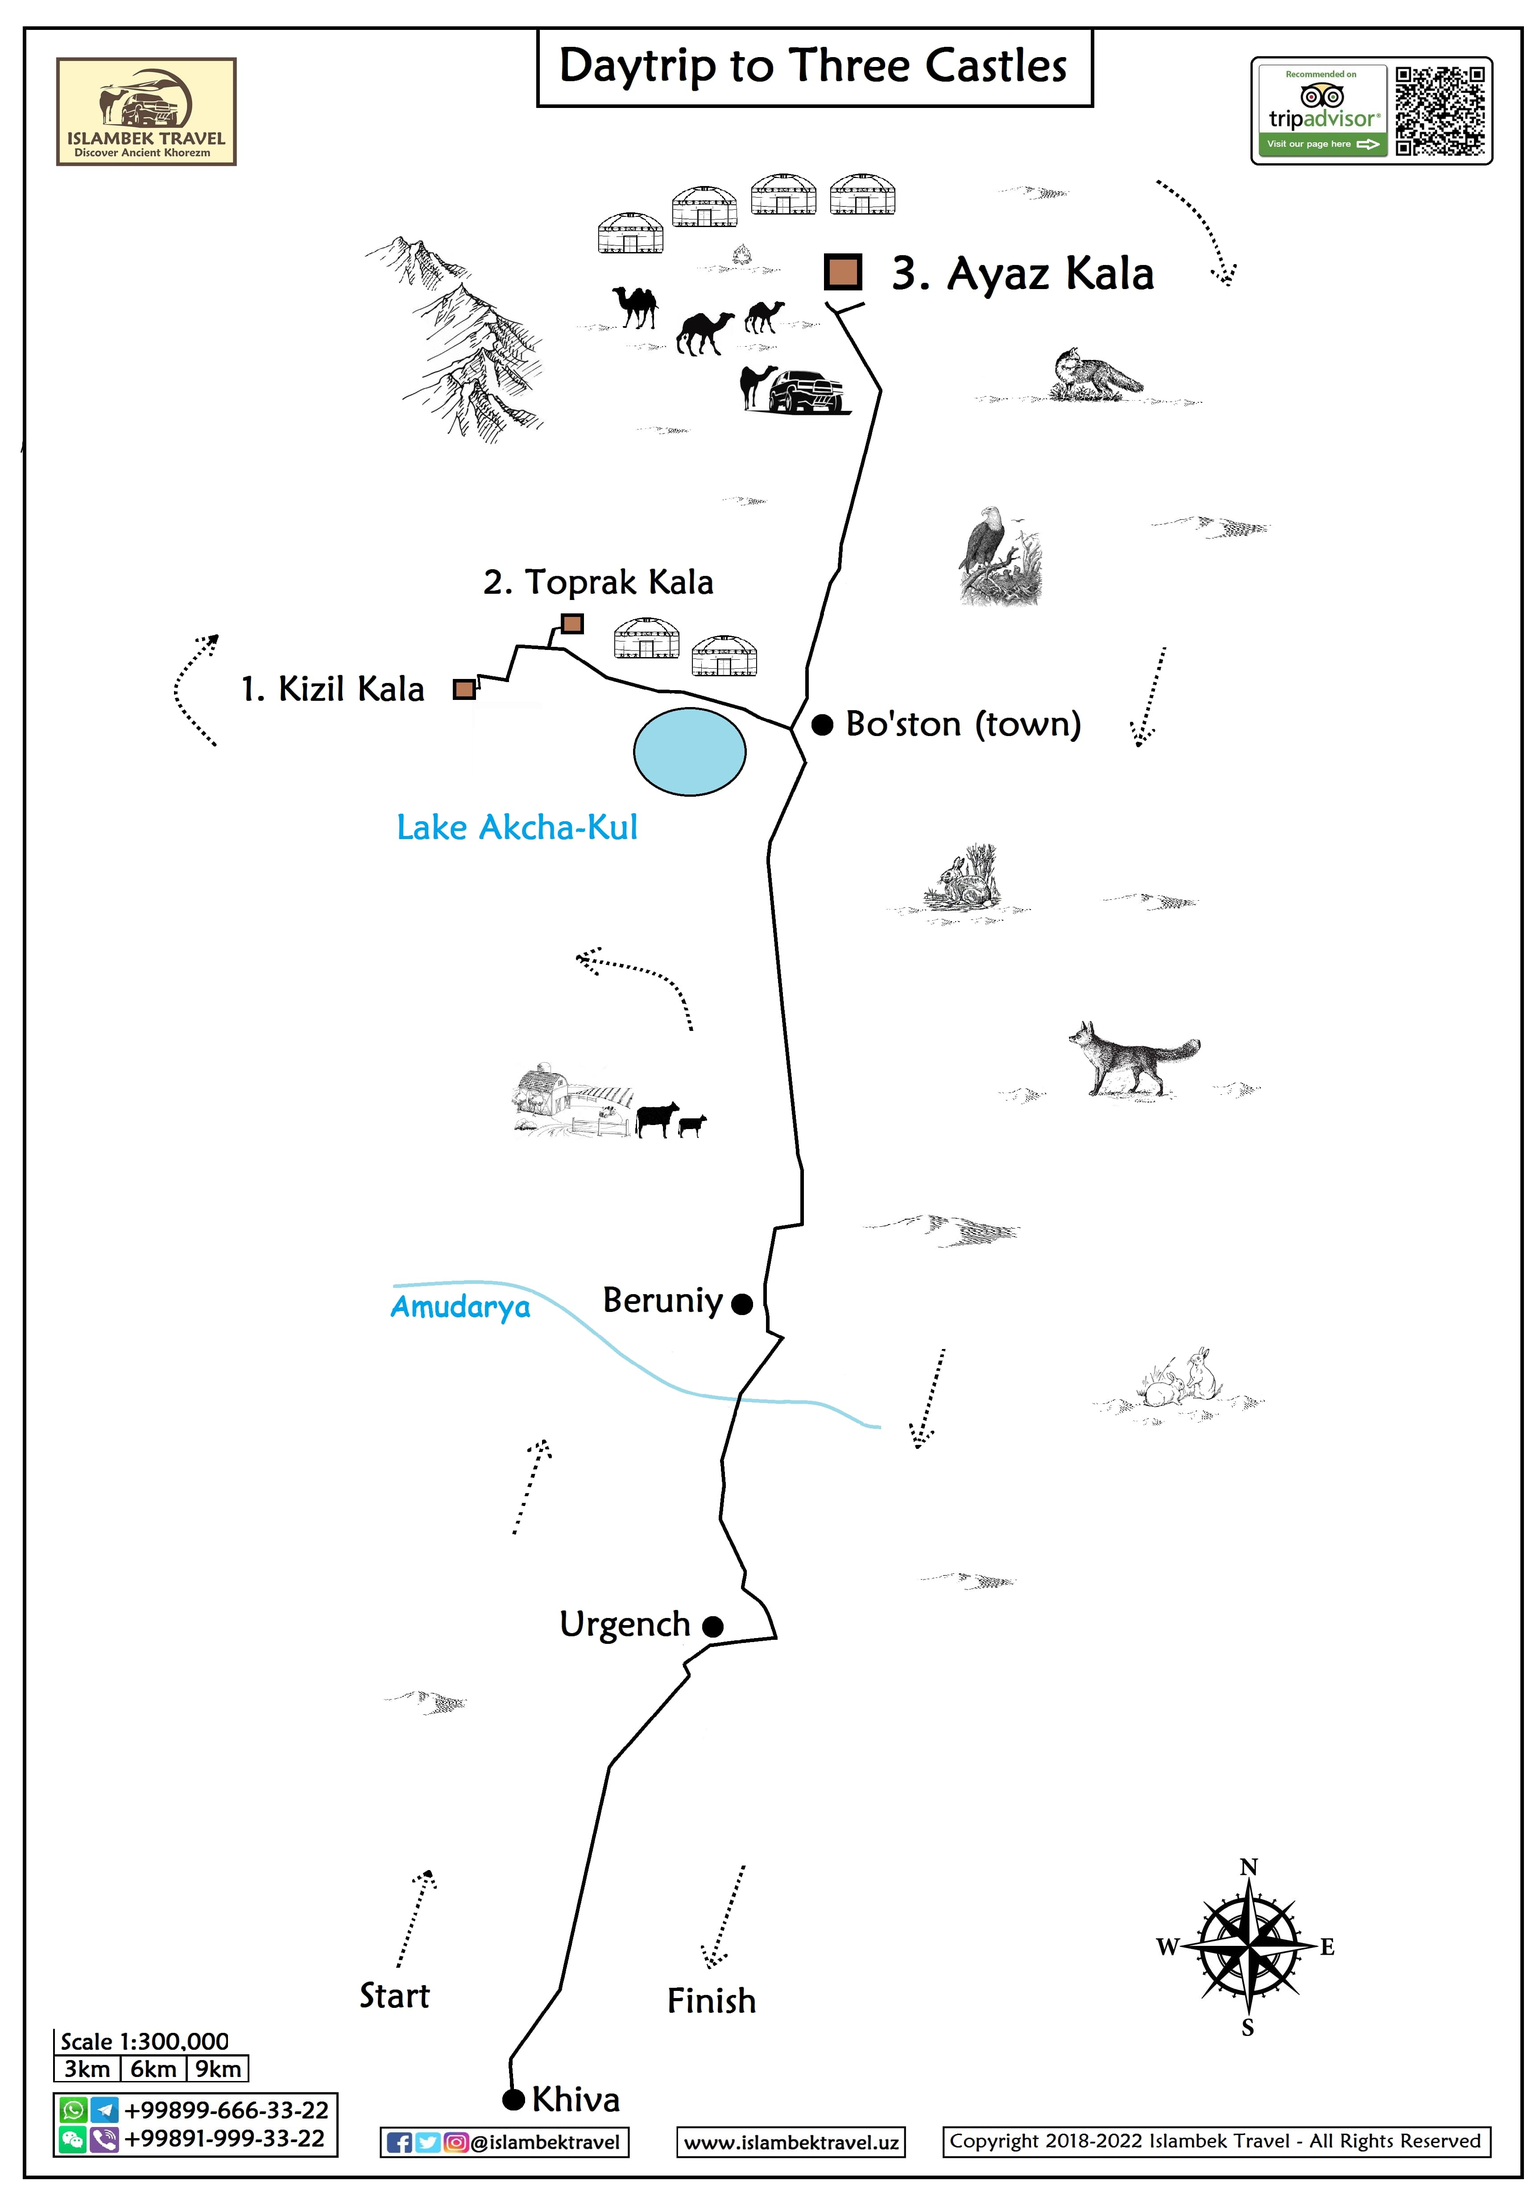
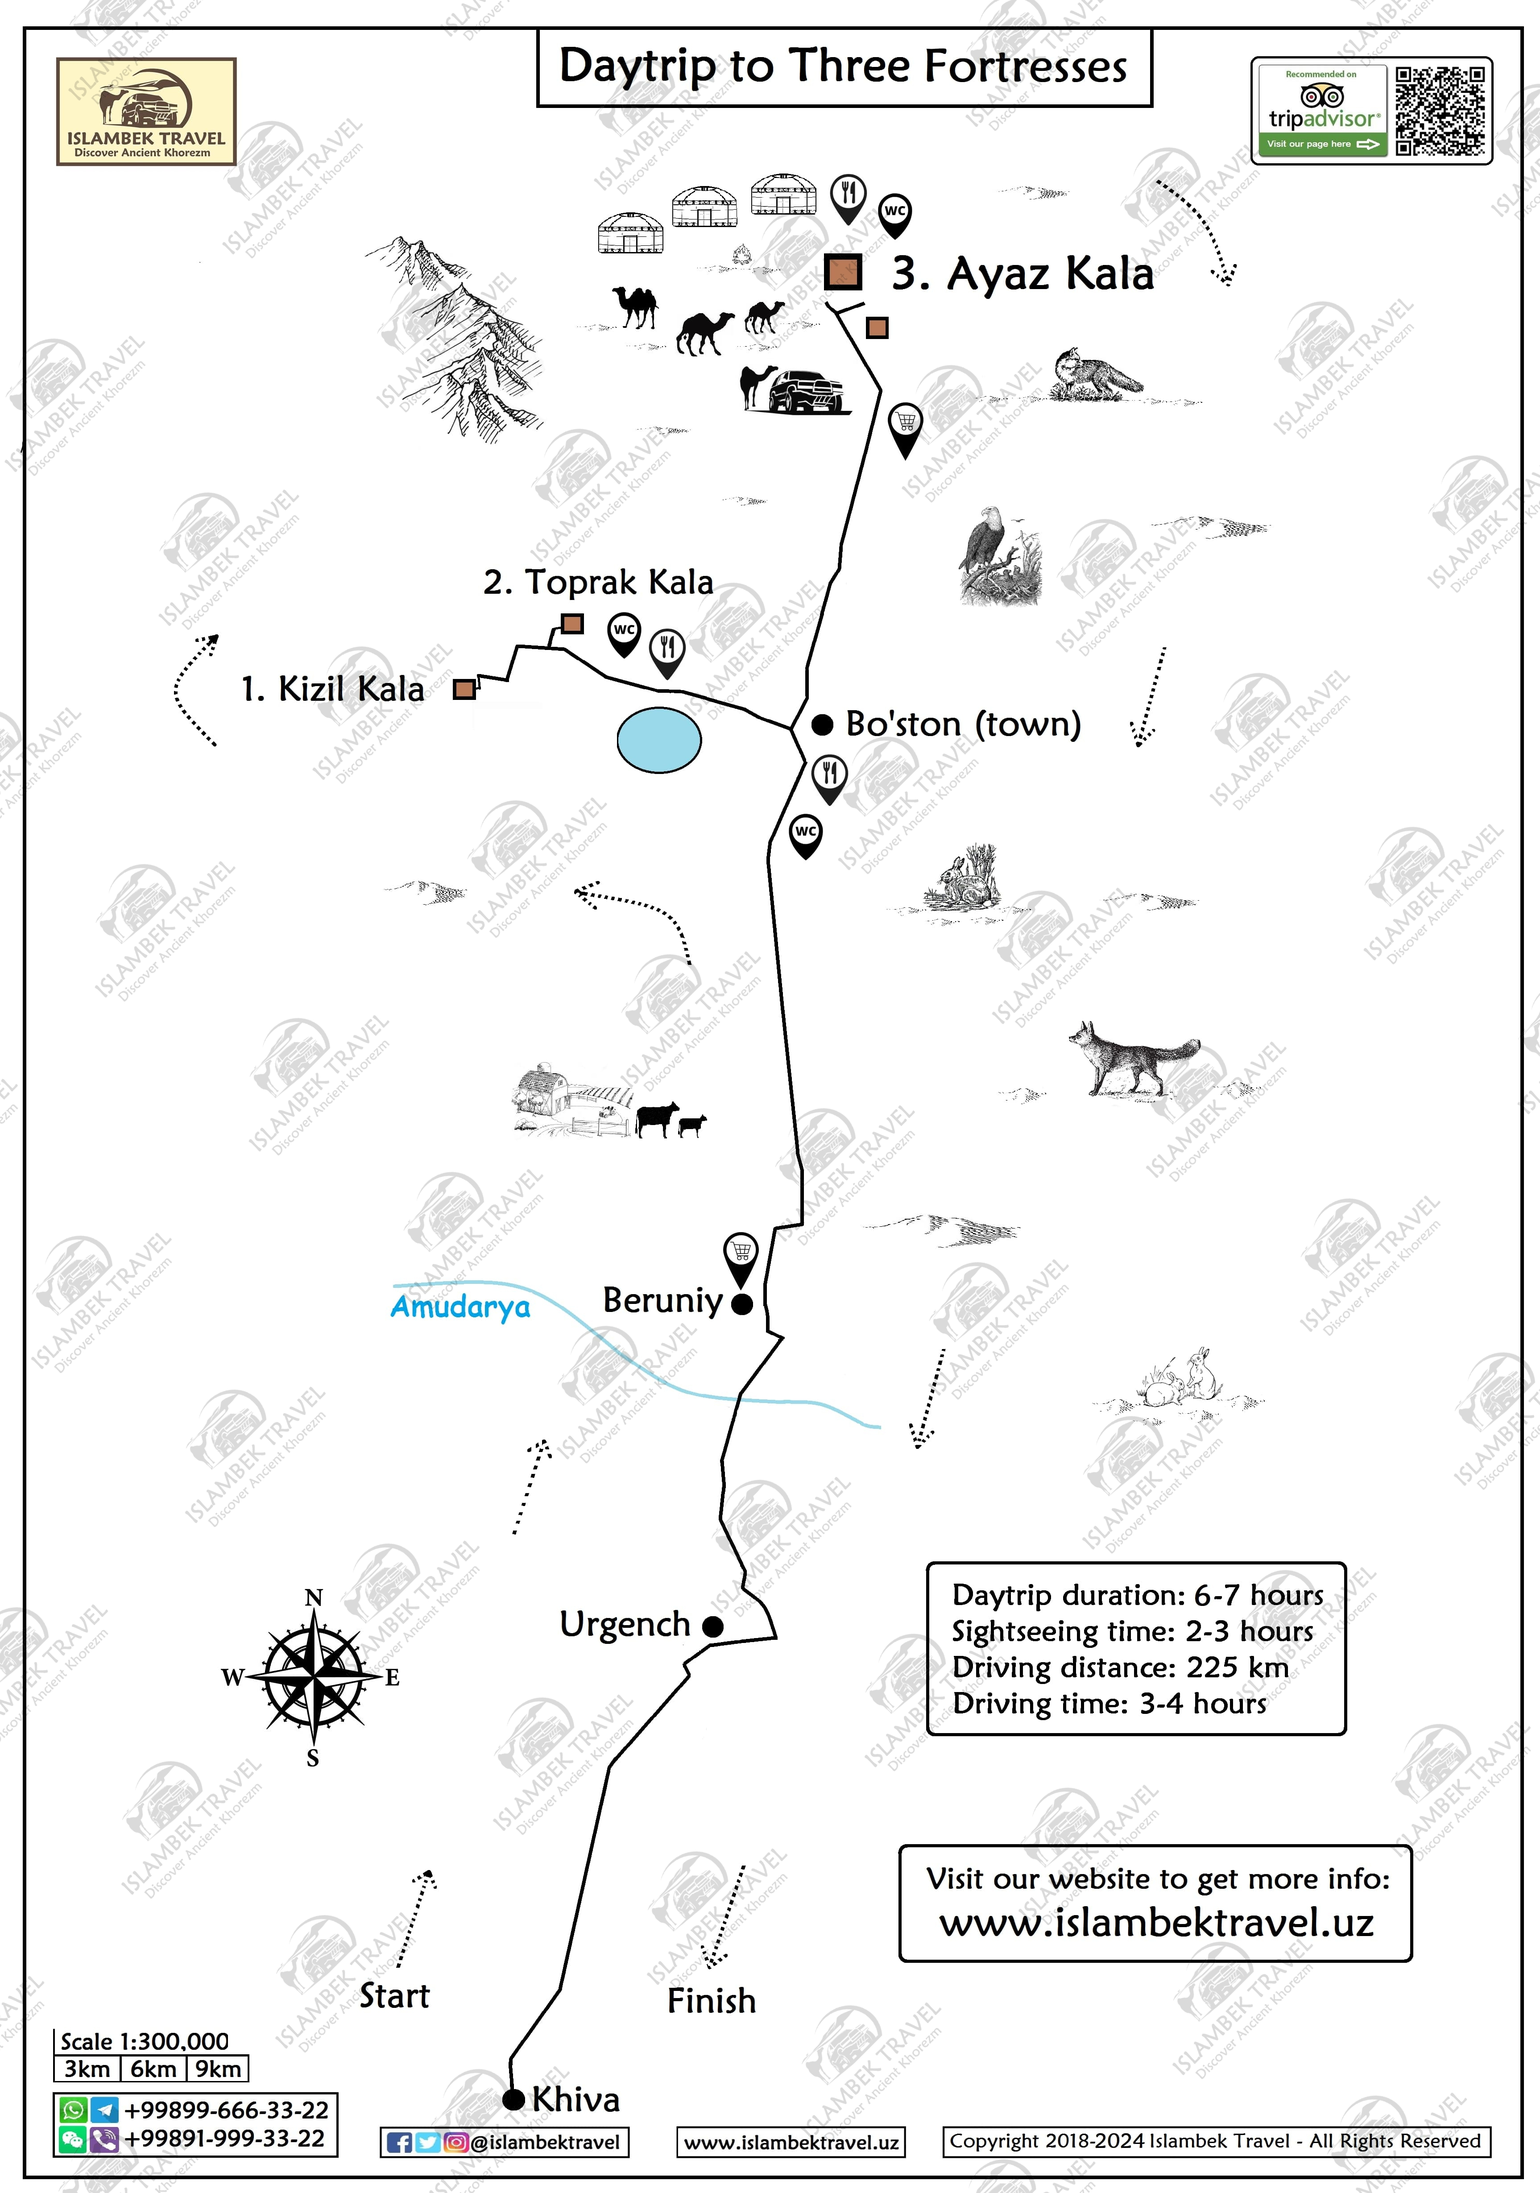
Shared daytrips done

diff --git a/shared_daytrips.html b/shared_daytrips.html
@@ -81,7 +81,7 @@
     <section id="faq" class="faq">
       <div class="container-fluid">
         <div class="section-title" style="text-align: center; margin-top: 30px;">
-          <h2 class="daytrip_size">Departure Guaranteed Shared/Group Day-Trip to Three Castles</h2>
+          <h2 class="daytrip_size">Departure Guaranteed Shared/Group Day-Trip to Three Fortresses</h2>
 
         </div>
         <div class="items">
@@ -109,13 +109,12 @@
                   <a data-bs-toggle="collapse" data-bs-target="#accordion-list-2" class="collapsed">Details<i class="bx bx-chevron-down icon-show"></i><i class="bx bx-chevron-up icon-close"></i></a>
                   <div id="accordion-list-2" class="collapse" data-bs-parent=".accordion-list">
                     <p>
-                      Duration: 6-7 hours  <br>
-Driving time: 3-4 hours <br>
-Sightseeing time: 2-3 hours <br>
-Daytrip length : 225 km. <br>
-Included: Fuel, Driver & Drinking Water   <br>
-Not Included: Entrance tickets(10,000 sums for Toprak Kala and another 10,000 sums for Ayaz Kala for each tourist), meals & etc. <br>
-
+                      Daytrip Duration: 6-7 hours  <br>
+                      Sightseeing time: 2-3 hours <br>
+                      Driving time: 3-4 hours <br>
+                      Driving Distance : 225 km. <br>
+                      Included: Hands-Free Brochures, a good drivers with new Cars with AC,  pick up and drop off at your location and Mineral water (0.5l. per person)<br>
+                      Not Included: Entrance tickets, meals, camel riding, Yurt Camp stay & etc.
                     </p>
                   </div>
                 </li>
@@ -124,34 +123,27 @@ Not Included: Entrance tickets(10,000 sums for Toprak Kala and another 10,000 su
                   <div id="accordion-list-3" class="collapse" data-bs-parent=".accordion-list">
                     <p>
                       $20 per person <br>
-
-
                     </p>
                   </div>
                 </li>
                 <li>
-                  <a data-bs-toggle="collapse" data-bs-target="#accordion-list-4" class="collapsed">Conditions<i class="bx bx-chevron-down icon-show"></i><i class="bx bx-chevron-up icon-close"></i></a>
-                  <div id="accordion-list-4" class="collapse" data-bs-parent=".accordion-list">
-                    <p>
-                      The type of the vehicle provided depends on the number of tourists booked. Sedan type of car is provided if there are 1-3 passengers. Minivan is provided is there are 4-7 passengers. Minibus is provided if there are 8-12 passengers. All vehicles fully equipped with Air-Conditioner. Reservation procedures are very simple and quick. No partial prepayment is needed. You will pay directly to our driver at the end of the trip in cash both in USD or Uzbek Soums. We never cancel the Daytrip. If you are the only person in a shared Daytrip, a supplement of %100 is applied. At the last 12 hours before the Daytrip, you will be informed in the case that you are the only guest in the Daytrip and we will offer a choice between cancelling the Daytrip or paying supplement of %100 of the price.
-
-                    </p>
-                  </div>
-                </li>
-                <li>
-                  <a data-bs-toggle="collapse" data-bs-target="#accordion-list-5" class="collapsed">Reserve<i class="bx bx-chevron-down icon-show"></i><i class="bx bx-chevron-up icon-close"></i></a>
+                  <a data-bs-toggle="collapse" data-bs-target="#accordion-list-5" class="collapsed">How to Reserve<i class="bx bx-chevron-down icon-show"></i><i class="bx bx-chevron-up icon-close"></i></a>
                   <div id="accordion-list-5" class="collapse" data-bs-parent=".accordion-list">
                     <p>
-                      Please contact us via E-mail, Whatsapp or by calling to reserve a seat for you on this trip while available numbers of seats are limited.
+                       
+                      Making Reservation of our Private/Shared Daytrips, Transfers, Aral Sea Adventure or Guided City Tours is very easy and totally free of cost. We only need from your side to confirm and provide following details related to your reservation in order to check availability, book and organize it with our team: <br>
+                      1. Name of the Trip, Transfer or Service interested. <br>
+                      2. Date of the Trip, Transfer or Service interested. <br>
+                      3. Please state type of Transport and confirm the Price. <br>
+                      4. Number of Travelers (luggage if available) in your group.  <br>
+                      5. Full names of all Travelers including info about Citizenship and Passport/ID Card numbers. <br>
+                      6. Pick up and starting time of the Trips or Transfers (contact us for recommendations). <br>
+                      7. Pick up and starting place of the Trips or Transfers (name of your hotel, Airport or Railway Station) <br>
+                      8. Drop off and ending place of the Trips or Transfers (name of your hotel, Airport or Railway Station) <br>
+                      9. Please state your contact information: Email, Mobile Phone or WhatsApp Numbers.  <br>
+                      That is all we need to know from your side in advance to check availability, make a reservation or to organize the requested services. <br>
+                      In order to cancel reserved trips or other services without being charged (%20 of the tour) please contact us at least 3 days before the tour starts. <br>
 
-                    </p>
-                  </div>
-                </li>
-                <li>
-                  <a data-bs-toggle="collapse" data-bs-target="#accordion-list-6" class="collapsed">Daytrip start<i class="bx bx-chevron-down icon-show"></i><i class="bx bx-chevron-up icon-close"></i></a>
-                  <div id="accordion-list-6" class="collapse" data-bs-parent=".accordion-list">
-                    <p>
-                      We start the Daytrip in front of our hotel/travel agency Islambek at 09:00 every day including Saturday and Sunday from 01.04.2023 – 31.05.2023 and 01.09.2023 – 31.10.2023. All passengers board the car between 08:30-09:00 am.  Mineral water and Hands-Free Brochure of the Daytrip is given to each passenger. - It is recommended to come 10-15 minutes before departure time around 08:50 am. You are provided with enough free time to explore the sites, for photos, break times, customized and flexible stops.
                     </p>
                   </div>
                 </li>
@@ -160,11 +152,13 @@ Not Included: Entrance tickets(10,000 sums for Toprak Kala and another 10,000 su
                   <a data-bs-toggle="collapse" data-bs-target="#accordion-list-7" class="collapsed">Itinerary  <i class="bx bx-chevron-down icon-show"></i><i class="bx bx-chevron-up icon-close"></i></a>
                   <div id="accordion-list-7" class="collapse" data-bs-parent=".accordion-list">
                     <p>
-                      It takes about 90 minutes to drive to the First Castle called Kizil Kala. It is recommended to spend 30-40 minutes for sightseeing there. Kizil Kala was originally constructed in the Late Antique period, 1st to 4th centuries CE, but was abandoned and then rebuilt in the 12th-13th centuries on the eve of the Mongol invasions. There is some debate about how this fortress may have been used in ancient times, with some scholars proposing that it was a garrison barracks for troops, whilst others suggest it was an early example of the many fortified manor houses that were typical of Khorezm in the early medieval periods (V.N.Yagodin & A.V.G.Betts (2006) Ancient Khorezm, UNESCO).
-                      After visiting Kizil Kala it is another 15 minutes to drive to the next Fortress called Toprak Kala. It is advised to spend 30-40 minutes there for sightseeing. Toprak Kala is dated in the Kushan period, around the 2nd and 3rd centuries CE and was the royal residence of the kings of the Khorezm. The place, having first served as a Royal sanctuary, was briefly abandoned in the early 4th century and then after some restorations, was used as an administrative citadel for the city.
-                      On the way between Toprak Kala and Ayaz Kala there is a Lake called Akchakul. You will arrive there at around 12:30. There are also Yurt camps and restaurants next to the lake where visitors enjoy local meals. Sometimes visitors enjoy swimming and sand bath in Akchakul Lake.
-                      You will arrive to the last fortress Ayaz Kala at around 13:30. It is recommended to spend 40-60 minutes there for sightseeing. It is the one of the most spectacular fortresses in the area. There are in fact, not one but three fortresses clustered together on and around a prominent hill at the Eastern end of the Sultan-Uiz-dahg range. The fortress provided defense against nomad raids. A gravel road leads up to a small cluster of Yurts, a tourist rest center overlooking a shallow but picturesque lake. The Fort dates to medieval times. It was probable founded in the Afrighid period, sometime around the 7th to 8th Centuries CE.
-                      After visiting Ayaz Kala, it is about another 90 minutes to drive back to Khiva. We finish the Daytrip in Khiva at around 16:00 and 15:30 in Urgench. We can drop you off in Urgench Airport, Urgench / Khiva Train Station or in your hotel both in Khiva or Urgench at the end of the trip without any extra charge. You can also bring your luggage with you in the trunk of the car during the trip</p>
+                      We start the Daytrip in front of our hotel/travel agency Islambek at 09:00 am every day from March till October including Saturday and Sunday. All passengers get in the car between 08:30-09:00 am.  Mineral water (0.5L per person) and Hands-Free Brochure of the Daytrip with interesting historical information of each site is given to each passenger. Please come 10-15 minutes before departure time (around 08:40 am – 08:50). You are provided with enough free time to explore each the sites, for photos, break times, customized and flexible stops. <br>
+                      The type of the vehicle provided depends on the number of passengers booked. Sedan type of car is provided if there are 1-3 passengers. Minivan is provided is there are 4-5 passengers. Minibus is provided if there are 6-13 passengers. All vehicles fully equipped with Air-Conditioner. Reservation procedures are very simple and quick. No partial prepayment is needed. You should contact us by email or WhatsApp to fill requested form with your information to make a reservation. Payment is done directly to our driver at the end of the Daytrip in cash in USD or equivalent in Uzbek Soums. We never cancel the Daytrip. If you are the only person in a shared Daytrip, a supplement of %100 is applied. At the last 12 hours before the Daytrip, you will be informed in the case that you are the only guest in the Daytrip and we will offer a choice between cancelling the Daytrip or paying supplement of %100 of the price. <br>
+                      It takes about 90 minutes to drive to the First Fortress called Kizil Kala. It is recommended to spend 30-40 minutes there for sightseeing. The fortress Kizil Kala was originally constructed in the Late Antique period, 1st to 4th centuries CE, but was abandoned and then rebuilt in the 12th-13th centuries on the eve of the Mongol invasions. There is some debate about how this fortress may have been used in ancient times, with some scholars proposing that it was a garrison barracks for troops, whilst others suggest it was an early example of the many fortified manor houses that were typical of Khorezm in the early medieval periods (V.N.Yagodin & A.V.G.Betts (2006) Ancient Khorezm, UNESCO). <br>
+                      After visiting Kizil Kala it is another 15 minutes to drive to the next Fortress called Toprak Kala. It is advised to spend 30-40 minutes there for sightseeing. The Toprak Kala is dated in the Kushan period, around the 2nd and 3rd centuries CE and was the royal residence of the kings of the Khorezm. The place, having first served as a Royal sanctuary, was briefly abandoned in the early 4th century and then after some restorations, was used as an administrative citadel for the city. <br>
+                      After visiting 2 Fortresses our driver will stop at the shore of the Akchakul Lake for Lunch, Minimarket, toilet and etc. around 12:30. There are also Yurt camps and restaurants next to the lake where visitors can enjoy local meals, drinks and even Ice-Cream made from local milk. It is also possible to enjoy swimming and sand bath there in the Natural Lake Akchakul. <br>
+                      After having break in Akchakul Lake it takes about 30 minutes to drive to the last and the best part of the Day - Ayaz Kala. It is recommended to spend 30-60 minutes there for sightseeing. Ayaz Kala is the biggest and the one of the most spectacular fortresses in the area. There are in fact, not one but three fortresses clustered together on and around a prominent hill at the Eastern end of the Sultan-Uiz-dahg range. The fortress provided defense against nomad raids. A gravel road leads up to a small cluster of Yurts, a tourist rest center overlooking a shallow but picturesque lake. The Fort dates to medieval times. It was probable founded in the Afrighid period, sometime around the 7th to 8th Centuries CE. <br>
+                      After visiting Ayaz Kala, it is about another 90 minutes to drive back to Khiva. We finish the Daytrip in Urgench at around 15:30 and in Khiva around 16:00. We can drop you off in Urgench Airport, Urgench / Khiva Train Station or in your hotel both in Khiva or Urgench at the end of the trip without any extra charge. You can also bring your luggage with you in the trunk of the car during the trip. Please contact us via E-mail, Whatsapp or by calling to reserve a seat for you on this interesting Daytrip. Number of available seats are limited.</p>
                   </div>
                 </li>
                 <li>
@@ -328,8 +322,7 @@ Not Included: Entrance tickets(10,000 sums for Toprak Kala and another 10,000 su
       <div class="container">
 
         <div class="section-title">
-          <h2>Photo Gallery</h2>
-          <p>Pictures of the Day-Trip</p>
+          <h2>Pictures of the Day-Trip</h2>
         </div>
 
         <div class="row portfolio-container">
